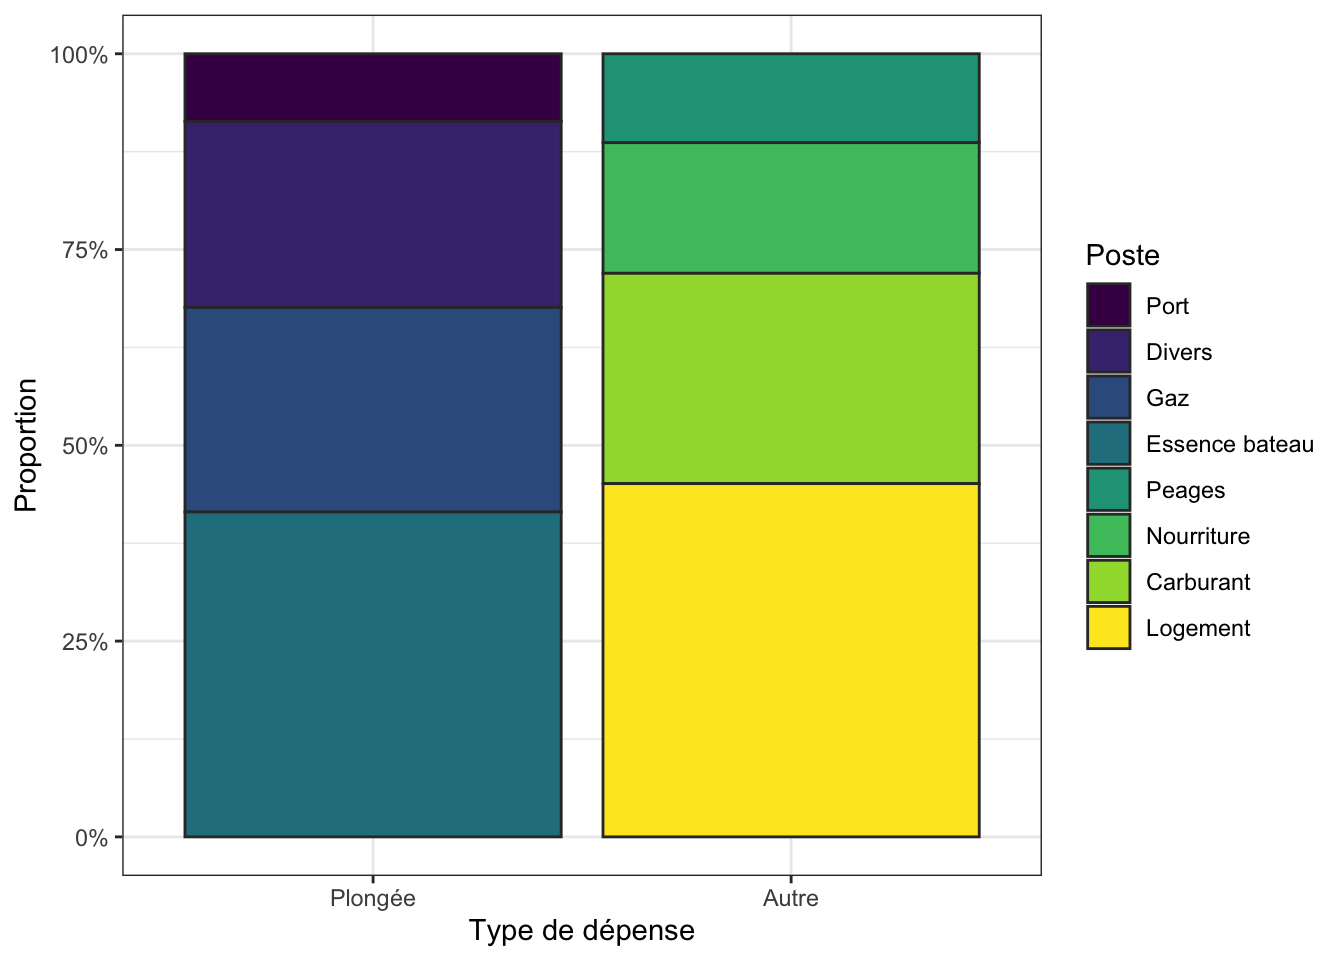
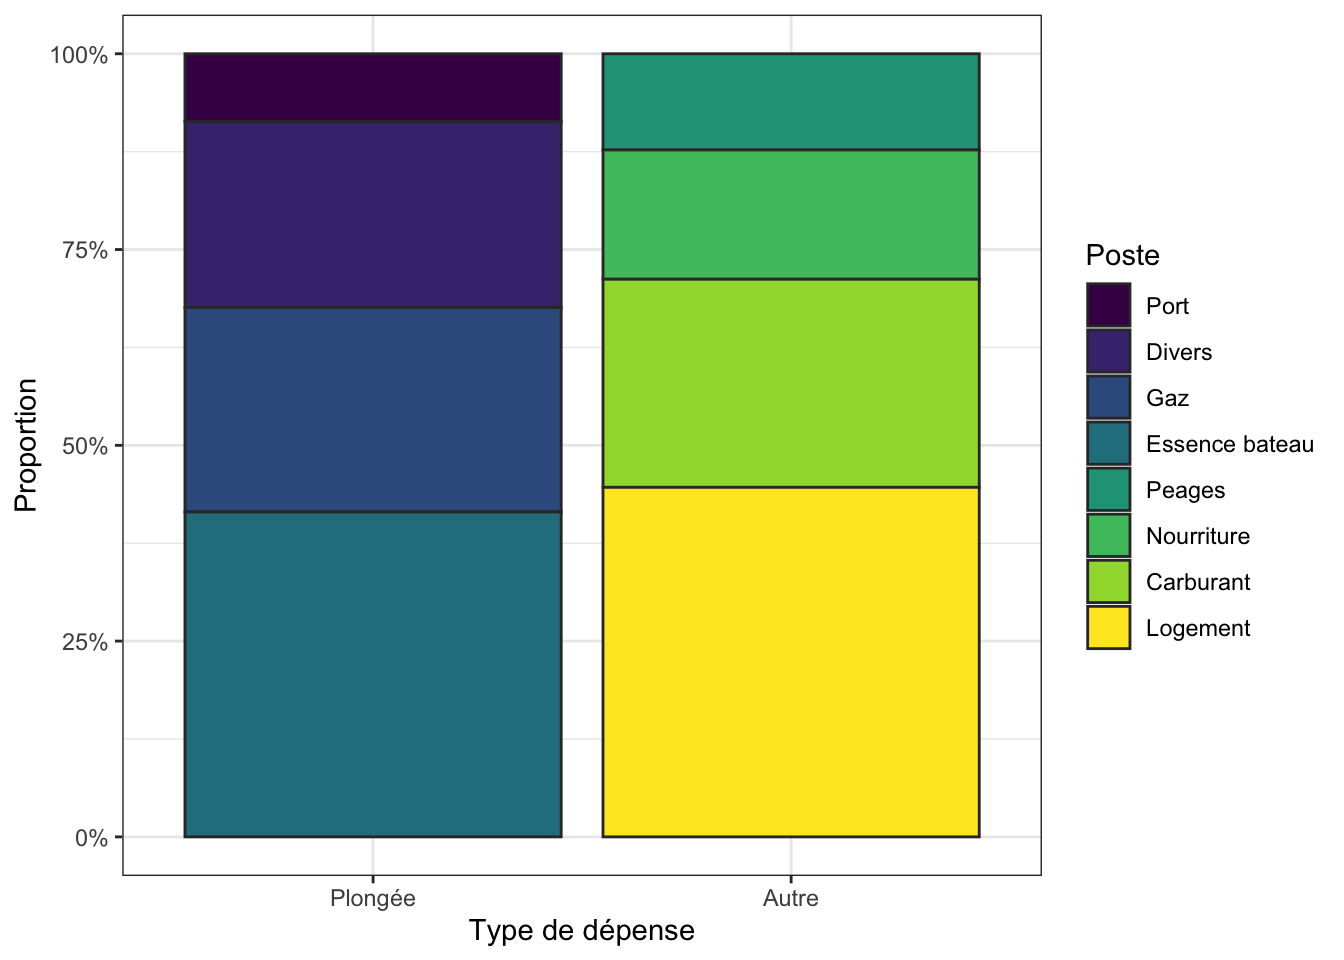
Correction péages Nath pour Cavalaire 2025

Changed region(s): [[0.4375, 0.5, 0.7188, 0.5312], [0.4375, 0.2812, 0.7188, 0.3125], [0.4375, 0.125, 0.7188, 0.1562]]

diff --git a/docs/Cavalaire2025.html b/docs/Cavalaire2025.html
@@ -327,7 +327,7 @@ ul.task-list li input[type="checkbox"] {
     <div>
     <div class="quarto-title-meta-heading">Dernière Mise à jour</div>
     <div class="quarto-title-meta-contents">
-      <p class="date">mardi 6 mai 2025</p>
+      <p class="date">vendredi 9 mai 2025</p>
     </div>
   </div>
   
@@ -709,10 +709,10 @@ Table&nbsp;4: Dépenses hors plongées engagées par les participants à la sort
 <td style="text-align: right;">133.33€</td>
 <td style="text-align: right;">207.80€</td>
 <td style="text-align: right;">0.00€</td>
-<td style="text-align: right;">70.80€</td>
+<td style="text-align: right;">122.60€</td>
 <td style="text-align: right;">0€</td>
 <td style="text-align: right;">0€</td>
-<td style="text-align: right;">411.93€</td>
+<td style="text-align: right;">463.73€</td>
 </tr>
 <tr class="even">
 <td style="text-align: right;">Pierre</td>
@@ -739,10 +739,10 @@ Table&nbsp;4: Dépenses hors plongées engagées par les participants à la sort
 <td style="text-align: right; font-weight: bold;">2,201.04€</td>
 <td style="text-align: right; font-weight: bold;">813.98€</td>
 <td style="text-align: right; font-weight: bold;">1,310.52€</td>
-<td style="text-align: right; font-weight: bold;">553.90€</td>
+<td style="text-align: right; font-weight: bold;">605.70€</td>
 <td style="text-align: right; font-weight: bold;">0€</td>
 <td style="text-align: right; font-weight: bold;">0€</td>
-<td style="text-align: right; font-weight: bold;">4,879.44€</td>
+<td style="text-align: right; font-weight: bold;">4,931.24€</td>
 </tr>
 </tbody>
 </table>
@@ -828,7 +828,7 @@ Table&nbsp;6: Coûts unitaires par personne
 <td style="text-align: right;">34.94€</td>
 <td style="text-align: right;">4.31€</td>
 <td style="text-align: right;">145.61€</td>
-<td style="text-align: right;">61.54€</td>
+<td style="text-align: right;">67.30€</td>
 </tr>
 </tbody>
 </table>
@@ -907,23 +907,23 @@ Table&nbsp;7: Bilan des coûts par plongeur et par poste
 </tr>
 <tr class="odd">
 <td style="text-align: right; border-bottom: 1px solid;">Peage</td>
-<td style="text-align: right; border-bottom: 1px solid;">61.54€</td>
-<td style="text-align: right; border-bottom: 1px solid;">61.54€</td>
-<td style="text-align: right; border-bottom: 1px solid;">61.54€</td>
-<td style="text-align: right; border-bottom: 1px solid;">123.09€</td>
-<td style="text-align: right; border-bottom: 1px solid;">61.54€</td>
-<td style="text-align: right; border-bottom: 1px solid;">123.09€</td>
-<td style="text-align: right; border-bottom: 1px solid;">61.54€</td>
+<td style="text-align: right; border-bottom: 1px solid;">67.30€</td>
+<td style="text-align: right; border-bottom: 1px solid;">67.30€</td>
+<td style="text-align: right; border-bottom: 1px solid;">67.30€</td>
+<td style="text-align: right; border-bottom: 1px solid;">134.60€</td>
+<td style="text-align: right; border-bottom: 1px solid;">67.30€</td>
+<td style="text-align: right; border-bottom: 1px solid;">134.60€</td>
+<td style="text-align: right; border-bottom: 1px solid;">67.30€</td>
 </tr>
 <tr class="even">
 <td style="text-align: right; font-weight: bold;">Total</td>
-<td style="text-align: right; font-weight: bold;">696.58€</td>
-<td style="text-align: right; font-weight: bold;">696.58€</td>
-<td style="text-align: right; font-weight: bold;">696.58€</td>
-<td style="text-align: right; font-weight: bold;">1,238.74€</td>
-<td style="text-align: right; font-weight: bold;">696.58€</td>
-<td style="text-align: right; font-weight: bold;">1,106.38€</td>
-<td style="text-align: right; font-weight: bold;">696.58€</td>
+<td style="text-align: right; font-weight: bold;">702.34€</td>
+<td style="text-align: right; font-weight: bold;">702.34€</td>
+<td style="text-align: right; font-weight: bold;">702.34€</td>
+<td style="text-align: right; font-weight: bold;">1,250.25€</td>
+<td style="text-align: right; font-weight: bold;">702.34€</td>
+<td style="text-align: right; font-weight: bold;">1,117.89€</td>
+<td style="text-align: right; font-weight: bold;">702.34€</td>
 </tr>
 </tbody>
 </table>
@@ -949,37 +949,37 @@ Table&nbsp;7: Bilan des coûts par plongeur et par poste
 <tr class="odd">
 <td style="text-align: right;">Baptiste</td>
 <td style="text-align: right;">rembourse à l'AP</td>
-<td style="text-align: right;">66.67€</td>
+<td style="text-align: right;">72.43€</td>
 </tr>
 <tr class="even">
 <td style="text-align: right;">Jean-Claude</td>
 <td style="text-align: right;">rembourse à l'AP</td>
-<td style="text-align: right;">245.29€</td>
+<td style="text-align: right;">251.05€</td>
 </tr>
 <tr class="odd">
 <td style="text-align: right;">Jérôme</td>
 <td style="text-align: right;">rembourse à l'AP</td>
-<td style="text-align: right;">205.43€</td>
+<td style="text-align: right;">216.94€</td>
 </tr>
 <tr class="even">
 <td style="text-align: right;">Nathalie</td>
 <td style="text-align: right;">rembourse à l'AP</td>
-<td style="text-align: right;">284.65€</td>
+<td style="text-align: right;">238.61€</td>
 </tr>
 <tr class="odd">
 <td style="text-align: right;">Thomas</td>
 <td style="text-align: right;">rembourse à l'AP</td>
-<td style="text-align: right;">71.42€</td>
+<td style="text-align: right;">77.18€</td>
 </tr>
 <tr class="even">
 <td style="text-align: right;">Benoît</td>
 <td style="text-align: right;">se fait rembourser par l'AP</td>
-<td style="text-align: right;">607.91€</td>
+<td style="text-align: right;">602.15€</td>
 </tr>
 <tr class="odd">
 <td style="text-align: right;">Pierre</td>
 <td style="text-align: right;">se fait rembourser par l'AP</td>
-<td style="text-align: right;">136.48€</td>
+<td style="text-align: right;">124.97€</td>
 </tr>
 </tbody>
 </table>
